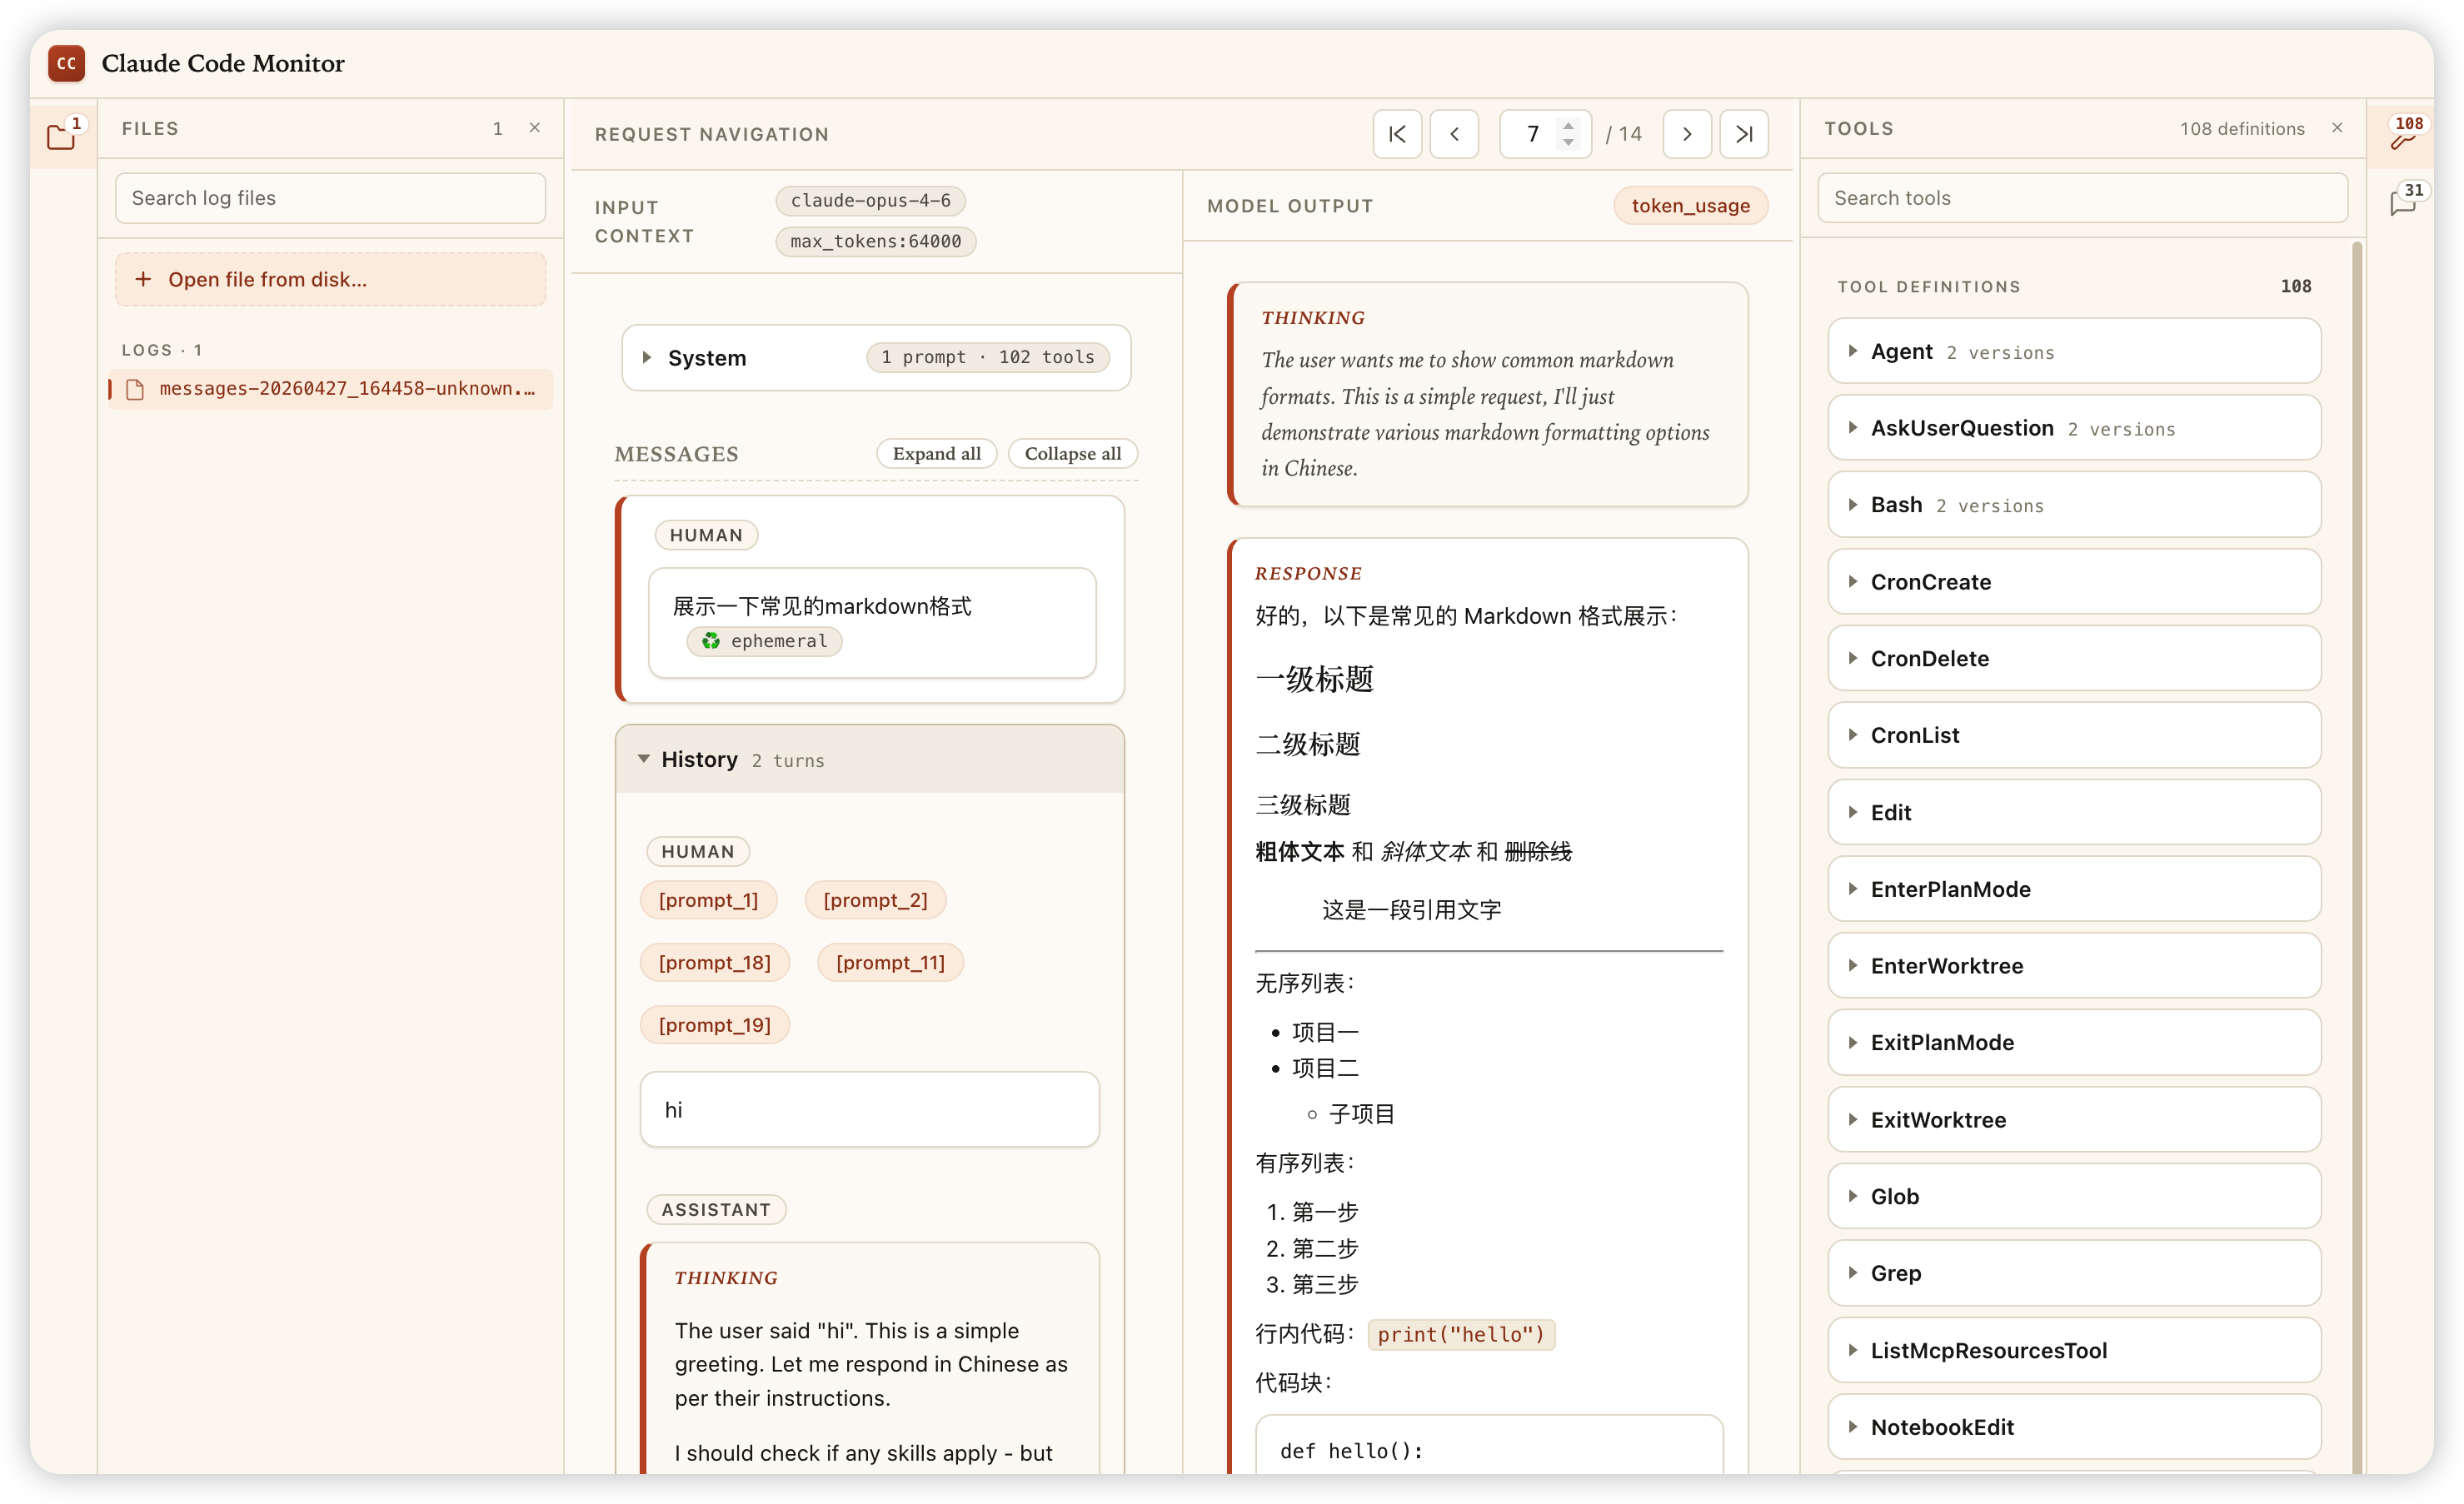
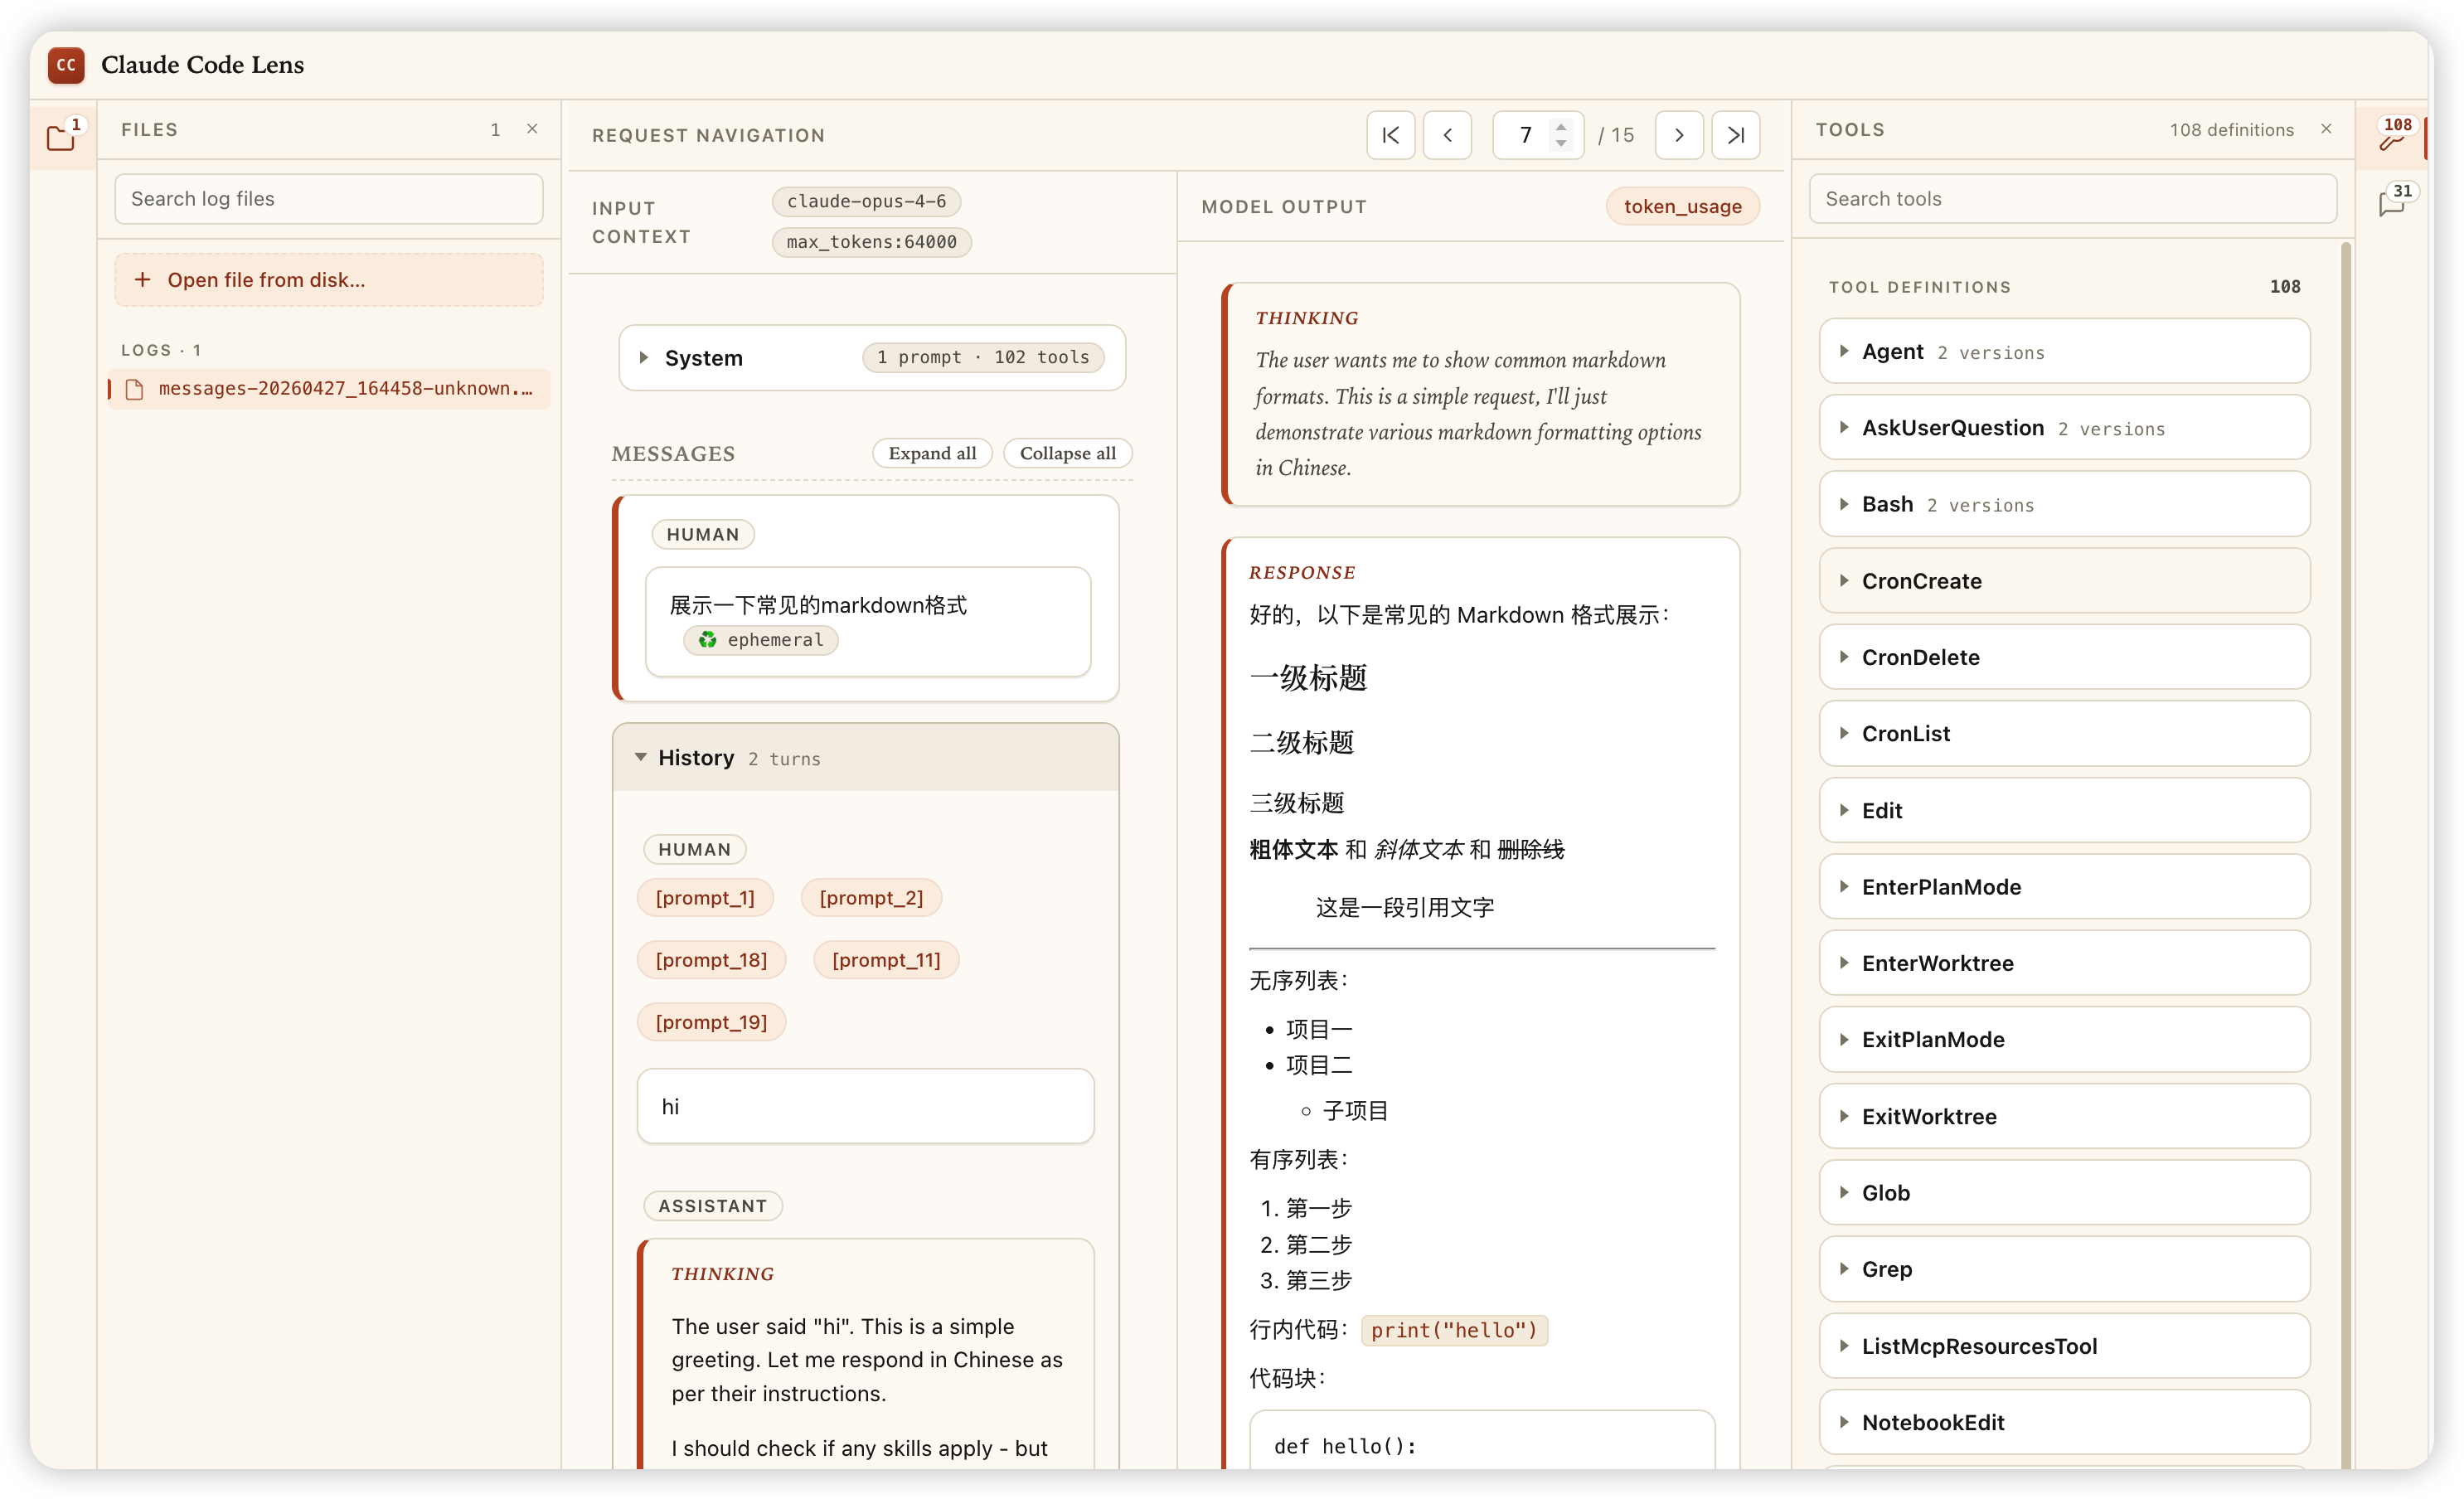
Prepare Claude Code Lens 0.0.2 release

diff --git a/src/visualizer/public/index.html b/src/visualizer/public/index.html
@@ -1976,6 +1976,7 @@
     const state = {
       data: null,
       index: 0,
+      currentLogUrl: null,
       promptMap: {},            // id -> text
       promptCounts: {},         // id -> count
       toolDefs: {},             // key -> def
@@ -3123,6 +3124,7 @@
       const conv = state.data.conversations[state.index];
       renderInput(conv);
       renderOutput(conv);
+      saveCurrentLogIndex();
     }
 
     firstBtn.onclick = () => setIndex(0);
@@ -3146,6 +3148,43 @@
 
     // -------- Load log files list --------
     const SELECT_FILE_VALUE = '__select_file__';
+    const SELECTED_LOG_KEY = 'selectedLog';
+    const LOG_INDEX_KEY_PREFIX = 'selectedLogIndex:';
+
+    function logIndexKey(url) {
+      return `${LOG_INDEX_KEY_PREFIX}${url}`;
+    }
+
+    function readStoredIndex(url) {
+      if (!url) return null;
+      try {
+        const value = localStorage.getItem(logIndexKey(url));
+        if (value == null) return null;
+        const index = parseInt(value, 10);
+        return Number.isFinite(index) && index >= 0 ? index : null;
+      } catch (e) {
+        console.warn('[Visualizer] Failed to read saved request index:', e);
+        return null;
+      }
+    }
+
+    function saveSelectedLog(url) {
+      if (!url || url === SELECT_FILE_VALUE) return;
+      try {
+        localStorage.setItem(SELECTED_LOG_KEY, url);
+      } catch (e) {
+        console.warn('[Visualizer] Failed to save selected log:', e);
+      }
+    }
+
+    function saveCurrentLogIndex() {
+      if (!state.currentLogUrl) return;
+      try {
+        localStorage.setItem(logIndexKey(state.currentLogUrl), String(state.index));
+      } catch (e) {
+        console.warn('[Visualizer] Failed to save request index:', e);
+      }
+    }
 
     function normalizeLogFiles(logFiles) {
       if (!Array.isArray(logFiles)) return [];
@@ -3218,13 +3257,13 @@
         targetPath = selectLogPathFromList(normalizedLogs, preferredPath);
       } else {
         try {
-          const savedLog = localStorage.getItem('selectedLog');
+          const savedLog = localStorage.getItem(SELECTED_LOG_KEY);
           if (savedLog && savedLog !== '__file_input__') {
             targetPath = selectLogPathFromList(normalizedLogs, savedLog);
             if (targetPath) {
               console.log('[Visualizer] Restored selection from localStorage:', targetPath.split('/').pop());
             } else {
-              localStorage.removeItem('selectedLog');
+              localStorage.removeItem(SELECTED_LOG_KEY);
               console.log('[Visualizer] Saved log file not found, cleared localStorage');
             }
           }
@@ -3255,8 +3294,8 @@
     async function loadLogFile(url, preservePosition = false) {
       if (!url) return;
 
-      // Remember current position if preserving
-      const previousIndex = preservePosition ? state.index : 0;
+      // Remember current position if preserving the already selected file.
+      const previousIndex = preservePosition && state.currentLogUrl === url ? state.index : null;
 
       try {
         const response = await fetch(url);
@@ -3280,8 +3319,12 @@
         const total = (json.conversations || []).length;
         metaInfoEl.textContent = '';
 
-        // Preserve position when reloading the same file, clamp to valid range
-        const targetIndex = preservePosition ? Math.min(previousIndex, total - 1) : 0;
+        state.currentLogUrl = url;
+        saveSelectedLog(url);
+
+        // Preserve live reload position, otherwise restore this log file's saved request index.
+        const storedIndex = readStoredIndex(url);
+        const targetIndex = Math.min(previousIndex ?? storedIndex ?? 0, total - 1);
         setIndex(targetIndex);
       } catch (err) {
         console.error('Failed to load log file:', err);
@@ -3350,7 +3393,7 @@
               
               // Save to localStorage
               try {
-                localStorage.setItem('selectedLog', newPath);
+                localStorage.setItem(SELECTED_LOG_KEY, newPath);
               } catch (e) {
                 console.warn('[SSE] Failed to save to localStorage:', e);
               }
@@ -3398,7 +3441,7 @@
 
         // Save selection to localStorage
         try {
-          localStorage.setItem('selectedLog', value);
+          localStorage.setItem(SELECTED_LOG_KEY, value);
           console.log('[Visualizer] Saved selection to localStorage:', value);
         } catch (e) {
           console.warn('[Visualizer] Failed to save to localStorage:', e);
@@ -3434,6 +3477,7 @@
         const total = (json.conversations || []).length;
         metaInfoEl.textContent = '';
 
+        state.currentLogUrl = null;
         setIndex(0);
 
         // Keep dropdown at "Select file..." after loading from file input
@@ -3441,7 +3485,7 @@
 
         // Mark this session as file input (don't restore on refresh)
         try {
-          localStorage.setItem('selectedLog', '__file_input__');
+          localStorage.setItem(SELECTED_LOG_KEY, '__file_input__');
           console.log('[Visualizer] File input loaded, localStorage set to __file_input__');
         } catch (e) {
           console.warn('[Visualizer] Failed to save to localStorage:', e);

diff --git a/src/cli/service.js b/src/cli/service.js
@@ -374,7 +374,7 @@ async function proxySubcommand() {
   // Save PID
   fs.writeFileSync(PID_FILE, child.pid.toString());
 
-  const healthUrl = `http://127.0.0.1:${port}/__claude-monitor/health`;
+  const healthUrl = `http://127.0.0.1:${port}/__claude-code-lens/health`;
   const isReady = await waitForHttp(healthUrl, 5000);
 
   // Verify startup
@@ -724,7 +724,7 @@ async function startVisualizer() {
 
   const visualizerPort = getVisualizerPort();
   const url = `http://127.0.0.1:${visualizerPort}`;
-  if (await waitForHttp(`${url}/__claude-monitor/health`, 1000)) {
+  if (await waitForHttp(`${url}/__claude-code-lens/health`, 1000)) {
     return {
       pid: fs.existsSync(VISUALIZER_PID_FILE) ? fs.readFileSync(VISUALIZER_PID_FILE, 'utf-8').trim() : 'unknown',
       url,
@@ -756,7 +756,7 @@ async function startVisualizer() {
     child.unref();
     fs.writeFileSync(VISUALIZER_PID_FILE, child.pid.toString());
 
-    const isReady = await waitForHttp(`${url}/__claude-monitor/health`, 5000);
+    const isReady = await waitForHttp(`${url}/__claude-code-lens/health`, 5000);
     if (!isReady || !isProcessRunning(child.pid)) {
       console.log(`${colors.yellow}⚠️  可视化工具启动后未通过健康检查,请查看日志: ${VISUALIZER_LOG_FILE}${colors.reset}`);
       return null;
@@ -944,14 +944,14 @@ async function defaultStartup(claudeExtraArgs) {
   const quiet = isPrintMode(claudeExtraArgs) && !MONITOR_VERBOSE;
 
   if (!quiet) {
-    monitorLog(`${colors.bold}Claude Monitor${colors.reset}`);
+    monitorLog(`${colors.bold}Claude Code Lens${colors.reset}`);
   }
 
   try {
     // Step 1: Port management
     verboseLog(`${colors.cyan}[1/4]${colors.reset} Checking port...`);
     const startPort = getPort();
-    const existingHealthUrl = `http://127.0.0.1:${startPort}/__claude-monitor/health`;
+    const existingHealthUrl = `http://127.0.0.1:${startPort}/__claude-code-lens/health`;
     const existingProxyReady = await waitForHttp(existingHealthUrl, 1000);
     const port = existingProxyReady ? startPort : await findAvailablePort(startPort);
     const target = discoverTargetBaseUrl({
@@ -975,7 +975,7 @@ async function defaultStartup(claudeExtraArgs) {
       };
     } else {
       proxyInfo = startProxyServer(port, target.baseUrl);
-      const proxyHealthUrl = `http://127.0.0.1:${port}/__claude-monitor/health`;
+      const proxyHealthUrl = `http://127.0.0.1:${port}/__claude-code-lens/health`;
       const proxyReady = await waitForHttp(proxyHealthUrl, 5000);
 
       if (!proxyReady || !isProcessRunning(proxyInfo.pid)) {

diff --git a/tests/proxy.test.js b/tests/proxy.test.js
@@ -178,7 +178,7 @@ test('proxy preserves query strings and filters upstream length headers', async 
   });
   t.after(() => child.kill('SIGTERM'));
 
-  await waitForHttp(`http://127.0.0.1:${proxyPort}/__claude-monitor/health`);
+  await waitForHttp(`http://127.0.0.1:${proxyPort}/__claude-code-lens/health`);
 
   const response = await requestJson(
     `http://127.0.0.1:${proxyPort}/v1/messages?beta=true&n=1`,
@@ -223,7 +223,7 @@ test('proxy groups logs by JSON metadata session_id', async (t) => {
   });
   t.after(() => child.kill('SIGTERM'));
 
-  await waitForHttp(`http://127.0.0.1:${proxyPort}/__claude-monitor/health`);
+  await waitForHttp(`http://127.0.0.1:${proxyPort}/__claude-code-lens/health`);
 
   const sessionId = '7342f1a7-c287-4039-b26e-2a3481ca98a7';
   await requestJson(
@@ -292,7 +292,7 @@ test('proxy discovers target base URL from Claude Code project settings', async 
   });
   t.after(() => child.kill('SIGTERM'));
 
-  await waitForHttp(`http://127.0.0.1:${proxyPort}/__claude-monitor/health`);
+  await waitForHttp(`http://127.0.0.1:${proxyPort}/__claude-code-lens/health`);
 
   const response = await requestJson(
     `http://127.0.0.1:${proxyPort}/v1/messages?discovered=true`,
@@ -379,7 +379,7 @@ test('proxy preserves streamed tool_use blocks when SSE events are split across 
   });
   t.after(() => child.kill('SIGTERM'));
 
-  await waitForHttp(`http://127.0.0.1:${proxyPort}/__claude-monitor/health`);
+  await waitForHttp(`http://127.0.0.1:${proxyPort}/__claude-code-lens/health`);
 
   const sessionId = '123e4567-e89b-12d3-a456-426614174001';
   const response = await requestText(

diff --git a/src/visualizer/server.js b/src/visualizer/server.js
@@ -210,7 +210,7 @@ async function startBuiltinServer() {
   const server = createServer(async (req, res) => {
     let filePath;
 
-    if (req.url === '/__claude-monitor/health') {
+    if (req.url === '/__claude-code-lens/health') {
       res.writeHead(200, { 'Content-Type': 'application/json' });
       res.end(JSON.stringify({ ok: true }));
       return;
@@ -365,7 +365,7 @@ async function main() {
   if (!IS_BACKGROUND_SERVER) {
     const url = `http://localhost:${PORT}`;
 
-    if (await waitForHttp(`http://127.0.0.1:${PORT}/__claude-monitor/health`, 1000)) {
+    if (await waitForHttp(`http://127.0.0.1:${PORT}/__claude-code-lens/health`, 1000)) {
       console.log(`${colors.green}✅ Visualizer is already running${colors.reset}`);
       console.log(`${colors.blue}→ URL: ${url}${colors.reset}`);
       openBrowser(url);
@@ -395,7 +395,7 @@ async function main() {
     child.unref();
 
     console.log(`${colors.green}✅ Visualizer started in background (PID: ${child.pid})${colors.reset}`);
-    const isReady = await waitForHttp(`http://127.0.0.1:${PORT}/__claude-monitor/health`, 5000);
+    const isReady = await waitForHttp(`http://127.0.0.1:${PORT}/__claude-code-lens/health`, 5000);
     if (!isReady) {
       console.error(`${colors.yellow}❌ Visualizer did not pass health check${colors.reset}`);
       process.exit(1);

diff --git a/src/proxy/server.js b/src/proxy/server.js
@@ -345,7 +345,7 @@ function handleStreamResponse(proxyRes, res, uid, resInfo, loggerCtx) {
 }
 
 // 处理所有路由
-app.get('/__claude-monitor/health', (req, res) => {
+app.get('/__claude-code-lens/health', (req, res) => {
   res.json({ ok: true });
 });
 

diff --git a/tests/visualizer.test.js b/tests/visualizer.test.js
@@ -71,7 +71,7 @@ test('visualizer server reads port from monitor config', async (t) => {
   });
   t.after(() => child.kill('SIGTERM'));
 
-  const response = await waitForHttp(`http://127.0.0.1:${port}/__claude-monitor/health`);
+  const response = await waitForHttp(`http://127.0.0.1:${port}/__claude-code-lens/health`);
   assert.equal(response.status, 200);
 });
 

diff --git a/README.md b/README.md
@@ -1,6 +1,6 @@
 # Claude Code Lens
 
-[![简体中文](https://img.shields.io/badge/README-简体中文-red.svg)](./README.zh-CN.md)
+[![npm](https://img.shields.io/npm/v/claude-code-lens.svg)](https://www.npmjs.com/package/claude-code-lens) [![简体中文](https://img.shields.io/badge/README-简体中文-red.svg)](./README.zh-CN.md)
 
 Claude Code Lens is a local observability tool for Claude Code. It runs an Anthropic-compatible proxy between Claude Code and the real upstream service, records system prompts, messages, tool definitions, tool calls, streaming responses, and token usage, then lets you inspect them in a browser.
 

diff --git a/README.zh-CN.md b/README.zh-CN.md
@@ -1,6 +1,6 @@
 # Claude Code Lens
 
-[![English](https://img.shields.io/badge/README-English-blue.svg)](./README.md)
+[![npm](https://img.shields.io/npm/v/claude-code-lens.svg)](https://www.npmjs.com/package/claude-code-lens) [![English](https://img.shields.io/badge/README-English-blue.svg)](./README.md)
 
 Claude Code Lens 是一个本地 Claude Code 可观测工具：它在 Claude Code 和真实 Anthropic-compatible 服务之间放一个本地代理，记录每次请求里的 system prompt、messages、tool definitions、tool calls、streaming response 和 token usage，并提供浏览器页面查看。
 